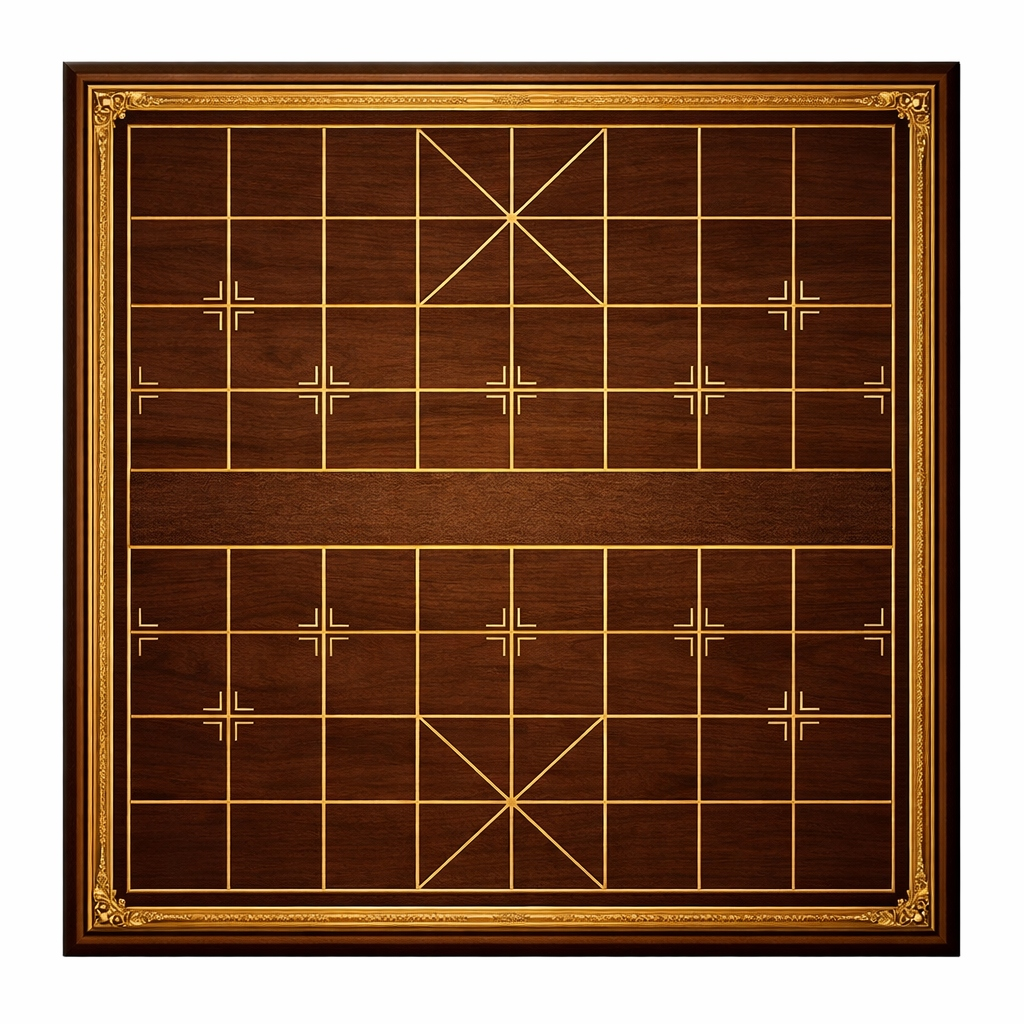
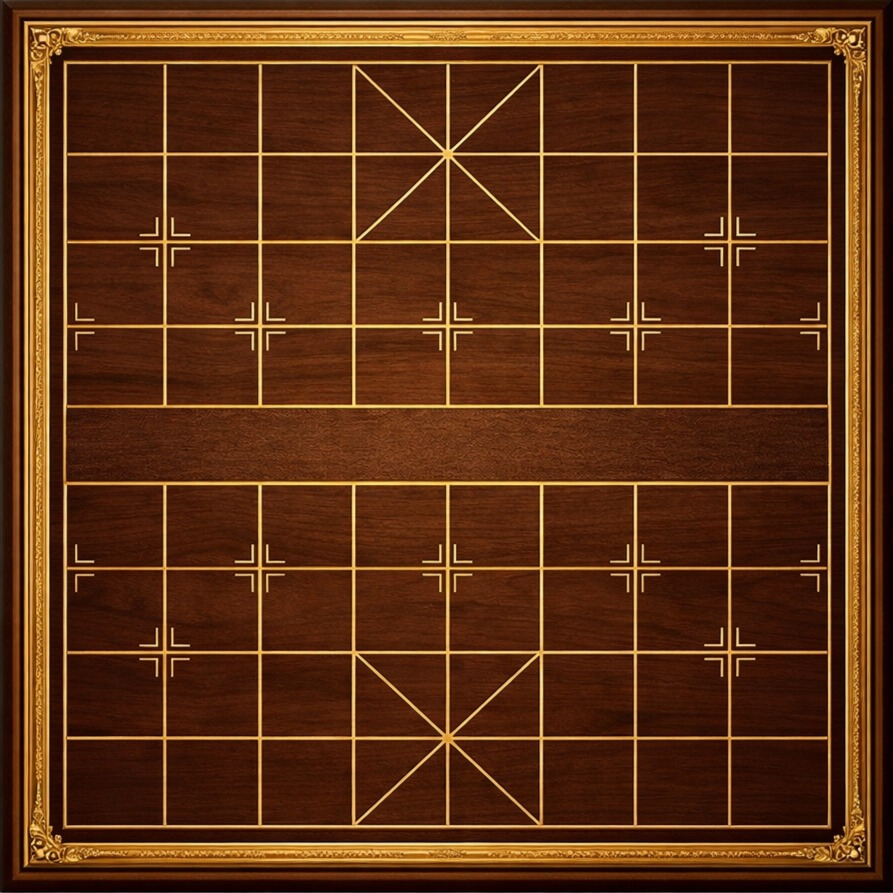
Update: New Royal Board Theme with perfect alignment and square proportions

diff --git a/components/Board.tsx b/components/Board.tsx
@@ -49,9 +49,13 @@ const Board: React.FC<BoardProps> = ({ board, selectedPos, onCellClick, lastMove
 
   const boardWidth = cellSize * (BOARD_COLS - 1);
   const boardHeight = cellSize * (BOARD_ROWS - 1);
-  const padding = cellSize / 1.5;
 
-  const themes: Record<string, { bg: string, border: string, shadow: string }> = {
+  // Logic CÂN CHỈNH cho bàn cờ Royal (Hình vuông)
+  const isRoyal = boardTheme === 'royal';
+  const vPadding = isRoyal ? cellSize * 1.05 : cellSize / 1.5;
+  const hPadding = isRoyal ? vPadding + (cellSize / 2) : cellSize / 1.5;
+
+  const themes: Record<string, { bg: string, border: string, shadow: string, hideBorder?: boolean }> = {
     wooden: {
       bg: 'url("/xiangqi_board_wooden_engraved.png")',
       border: '#3d2b1f',
@@ -70,7 +74,8 @@ const Board: React.FC<BoardProps> = ({ board, selectedPos, onCellClick, lastMove
     royal: {
       bg: 'url("/board_royal.jpg")',
       border: '#8b6914',
-      shadow: '0 25px 60px rgba(0,0,0,0.7), inset 0 0 30px rgba(212,175,55,0.15)'
+      shadow: '0 25px 60px rgba(0,0,0,0.7), inset 0 0 30px rgba(212,175,55,0.15)',
+      hideBorder: true
     },
     dark: {
       bg: 'linear-gradient(135deg, #1a1a1a 0%, #0a0a0a 100%)',
@@ -181,13 +186,13 @@ const Board: React.FC<BoardProps> = ({ board, selectedPos, onCellClick, lastMove
     <div
       className={`relative rounded-lg shadow-2xl flex-shrink-0 overflow-hidden ${flash ? 'animate-flash' : ''} ${shake ? 'animate-shake' : ''}`}
       style={{
-        width: boardWidth + padding * 2,
-        height: boardHeight + padding * 2,
+        width: boardWidth + hPadding * 2,
+        height: boardHeight + vPadding * 2,
         backgroundImage: currentTheme.bg,
-        backgroundSize: 'contain',
+        backgroundSize: isRoyal ? '100% 100%' : 'contain',
         backgroundPosition: 'center',
         backgroundRepeat: 'no-repeat',
-        border: `${Math.max(6, cellSize / 4)}px solid ${currentTheme.border}`,
+        border: currentTheme.hideBorder ? 'none' : `${Math.max(6, cellSize / 4)}px solid ${currentTheme.border}`,
         boxSizing: 'content-box',
         boxShadow: currentTheme.shadow,
       }}
@@ -198,8 +203,8 @@ const Board: React.FC<BoardProps> = ({ board, selectedPos, onCellClick, lastMove
           key={p.id}
           style={{
             position: 'absolute',
-            left: padding + p.c * cellSize + (cellSize / 2),
-            top: padding + p.r * cellSize + (cellSize / 2),
+            left: hPadding + p.c * cellSize + (cellSize / 2),
+            top: vPadding + p.r * cellSize + (cellSize / 2),
             width: `${p.size}px`,
             height: `${p.size}px`,
             backgroundColor: p.color,
@@ -216,7 +221,7 @@ const Board: React.FC<BoardProps> = ({ board, selectedPos, onCellClick, lastMove
       <div
         style={{
           position: 'absolute',
-          top: padding + cellSize * 4,
+          top: vPadding + cellSize * 4,
           left: 0,
           right: 0,
           height: cellSize,
@@ -256,8 +261,8 @@ const Board: React.FC<BoardProps> = ({ board, selectedPos, onCellClick, lastMove
       {/* Lớp hiển thị quân cờ tĩnh bằng Canvas (Tối ưu hiệu năng & Độ sắc nét) */}
       <canvas
         id="piece-layer"
-        width={boardWidth + padding * 2}
-        height={boardHeight + padding * 2}
+        width={boardWidth + hPadding * 2}
+        height={boardHeight + vPadding * 2}
         style={{
           position: 'absolute',
           top: 0,
@@ -308,8 +313,8 @@ const Board: React.FC<BoardProps> = ({ board, selectedPos, onCellClick, lastMove
                 const img = new Image();
                 img.src = `/pieces/${pieceFileMap[piece.color][piece.type]}`;
 
-                const x = padding + c * CELL_SIZE - CELL_SIZE / 2 + offset;
-                const y = padding + r * CELL_SIZE - CELL_SIZE / 2 + offset;
+                const x = hPadding + c * CELL_SIZE - CELL_SIZE / 2 + offset;
+                const y = vPadding + r * CELL_SIZE - CELL_SIZE / 2 + offset;
 
                 // Render piece
                 if (img.complete) {
@@ -344,7 +349,7 @@ const Board: React.FC<BoardProps> = ({ board, selectedPos, onCellClick, lastMove
       />
 
       {/* Lớp tương tác (Giữ nguyên cho sự kiện click) */}
-      <div style={{ position: 'absolute', left: padding, top: padding, display: 'grid', gridTemplateColumns: `repeat(${BOARD_COLS}, 0px)`, zIndex: 30 }}>
+      <div style={{ position: 'absolute', left: hPadding, top: vPadding, display: 'grid', gridTemplateColumns: `repeat(${BOARD_COLS}, 0px)`, zIndex: 30 }}>
         {Array.from({ length: BOARD_ROWS }).map((_, r) => (
           Array.from({ length: BOARD_COLS }).map((_, c) => (
             <div key={`${r}-${c}`} style={{ position: 'absolute', left: c * cellSize - cellSize / 2, top: r * cellSize - cellSize / 2, width: cellSize, height: cellSize, display: 'flex', alignItems: 'center', justifyContent: 'center', cursor: 'pointer' }} onClick={() => onCellClick({ r, c })}>
@@ -363,7 +368,7 @@ const Board: React.FC<BoardProps> = ({ board, selectedPos, onCellClick, lastMove
 
       {/* Quân cờ đang di chuyển (Dùng DOM để animation mượt mà) */}
       {animatingPiece && (
-        <div style={{ position: 'absolute', left: padding, top: padding, width: boardWidth, height: boardHeight, pointerEvents: 'none', zIndex: 100 }}>
+        <div style={{ position: 'absolute', left: hPadding, top: vPadding, width: boardWidth, height: boardHeight, pointerEvents: 'none', zIndex: 100 }}>
           <div
             className={`animating-piece ${animatingPiece.isAnimating ? 'motion-blur-extreme' : ''}`}
             style={{

diff --git a/copy_pieces_fixed.py b/copy_pieces_fixed.py
@@ -1,0 +1,43 @@
+import shutil
+import os
+
+# Source and destination directories
+source_dir = r"c:\Users\p\Downloads\thần-cờ-độc-miệng---xiangqi-master\ảnh cờ"
+dest_dir = r"c:\Users\p\Downloads\thần-cờ-độc-miệng---xiangqi-master\public\pieces"
+
+# CORRECTED mapping based on careful visual inspection
+# Format: (source_filename, dest_filename, character)
+mappings = [
+    # Black pieces (black characters on ivory)
+    ("download - Edited - Edited (1).png", "black_elephant_xiang.png", "象"),
+    ("download - Edited - Edited (2).png", "black_advisor_shi.png", "士"),
+    ("download - Edited - Edited.png", "black_cannon_pao.png", "炮"),
+    ("download - Edited - Edited (3).png", "black_king_jiang.png", "將"),
+    ("download - Edited - Edited - Edited - Edited.png", "black_chariot_ju.png", "車"),
+    ("download - Edited - Edited - Edited.png", "black_soldier_zu.png", "卒"),
+    
+    # Red pieces (red characters on ivory)
+    ("download - Edited - Edited (10).png", "red_king_shuai.png", "帥"),
+    ("download - Edited - Edited (4).png", "red_advisor_shi.png", "仕"),  # Was (9)
+    ("download - Edited - Edited (8).png", "red_elephant_xiang.png", "相"),  # Was (5)
+    ("download - Edited - Edited (6).png", "red_horse_ma.png", "馬"),
+    ("download - Edited - Edited (7).png", "red_soldier_bing.png", "兵"),  # Was Edited-Edited
+    ("download - Edited - Edited (5).png", "red_cannon_pao.png", "炮"),  # Was Edited-Edited-Edited(1)
+]
+
+print("Copying corrected piece mappings...")
+print("=" * 50)
+
+# Copy files
+for source_file, dest_file, char in mappings:
+    source_path = os.path.join(source_dir, source_file)
+    dest_path = os.path.join(dest_dir, dest_file)
+    
+    if os.path.exists(source_path):
+        shutil.copy2(source_path, dest_path)
+        print(f"[OK] {char:2s} -> {dest_file}")
+    else:
+        print(f"[FAIL] Not found: {source_file}")
+
+print("=" * 50)
+print("\n[SUCCESS] All pieces copied with correct mapping!")
